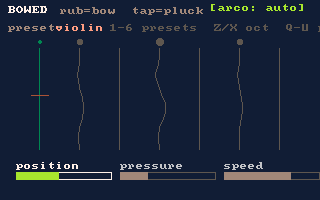
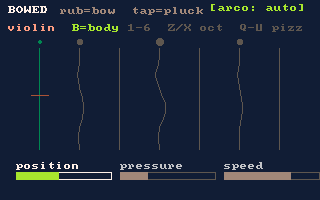
bowed: a B toggle for the new body -- and the baked frame caught two overlaps ui-audit did not
The engine change needs a cart where you can hear it (the standing constraint), so `bowed` gets 'B': one key
that switches between a bare string and a string in a box. It also fires a pizz on toggle so the change is
audible immediately rather than on the next note you happen to play.

ON by default in THIS cart because it is the showcase and the body is the thing worth hearing; the ENGINE
default stays OFF so the other 13 BOWED carts are untouched. Applied to both the arco and pizz slots, since
it is one instrument with one body. Documented in the source that MODE_BOW_BODY is read at NOTE-ON, so the
toggle lands on the next note and not on notes already sounding, and that the box is one fixed VIOLIN size
-- so preset 3 (cello) gets a violin's body for now, approximate on purpose.

LAYOUT, which took three passes and is the useful part of this commit. ui-audit passed my first version, but
reading the baked frame showed the readout colliding with the existing "[arco: auto]" indicator AND the help
line running off the right edge. The screen is 320 wide and the top row was already full (BOWED + rub/tap
ends at 204, arco starts at 210), so there was never room there. Restructured the y=24 row instead:
  · dropped the "preset:" label, which was ALREADY overlapping the peach preset name (pre-existing)
  · that freed the width for a "B=body" readout that shows state by COLOUR (lime on / grey off)
[…]

Changed region(s): [[0.0, 0.12, 0.9688, 0.18]]

diff --git a/tools/carts/bowed.c b/tools/carts/bowed.c
@@ -13,7 +13,7 @@
     "analog-voice-modeling"
   ],
   "lineage": "Ports the Smith/McIntyre stick-slip bowed-string waveguide from navkit (bowsweep.c Schelleng-wedge calibration); novel: arco/pizzicato as a single waveguide with friction toggled via eng_tune, plus multitouch rub-velocity as bow speed.",
-  "description": "INSTR_BOWED showcase - the bowed string (violin / viola / cello), the last modeled string engine. A Smith/McIntyre stick-slip friction waveguide: a bow drags the string, the rosin grips then slips, and that friction drives a SELF-OSCILLATING loop - so unlike the plucked/struck strings it HOLDS while sustained and swells as you lean in. STEP-0 (tools/navkit-bowsweep.c) mapped the Schelleng wedge of stable bowing and the three macros are pinned inside it: instrument_harmonics = bow position (0 = sul ponticello, near the bridge, bright/edgy; 1 = sul tasto, over the fingerboard, soft), instrument_timbre = bow pressure (0 = light/clean singing leaning-sawtooth; 1 = heavy/scratchy surface sound - a real articulation, not a bug), instrument_morph = bow speed/swell (0 = gentle; 1 = digging in, louder and cleaner). THE FEEL: you don't press a string, you RUB it - drag back and forth and it speaks; the energy ACCUMULATES, so the longer/harder you rub the more it builds and digs in, and stopping lets the bow rest (silent). A quick TAP instead PLUCKS the string - pizzicato, which is the SAME bowed waveguide: a second INSTR_BOWED slot flagged eng_tune(slot,0,1) seeds the string with a pluck and switches the bow friction off, so the identical string and body ring down (arco and pizz differ only in how energy enters, exactly as on a real violin). Six presets: 1 violin / 2 viola / 3 cello / 4 ponticello / 5 tasto / 6 tremolo. Keyboard: HOLD A S D F G H J to bow, tap Q W E R T Y U to pluck; LEFT/RIGHT pick a knob + UP/DOWN turn, Z/X octave, M autoplay arco. Multitouch: rub a drone with one hand, pluck a melody with the other. Design + STEP-0: instrument-engines.md §8.5 step 9."
+  "description": "INSTR_BOWED showcase - the bowed string (violin / viola / cello), the last modeled string engine. A Smith/McIntyre stick-slip friction waveguide: a bow drags the string, the rosin grips then slips, and that friction drives a SELF-OSCILLATING loop - so unlike the plucked/struck strings it HOLDS while sustained and swells as you lean in. STEP-0 (tools/navkit-bowsweep.c) mapped the Schelleng wedge of stable bowing and the three macros are pinned inside it: instrument_harmonics = bow position (0 = sul ponticello, near the bridge, bright/edgy; 1 = sul tasto, over the fingerboard, soft), instrument_timbre = bow pressure (0 = light/clean singing leaning-sawtooth; 1 = heavy/scratchy surface sound - a real articulation, not a bug), instrument_morph = bow speed/swell (0 = gentle; 1 = digging in, louder and cleaner). THE FEEL: you don't press a string, you RUB it - drag back and forth and it speaks; the energy ACCUMULATES, so the longer/harder you rub the more it builds and digs in, and stopping lets the bow rest (silent). A quick TAP instead PLUCKS the string - pizzicato, which is the SAME bowed waveguide: a second INSTR_BOWED slot flagged eng_tune(slot,0,1) seeds the string with a pluck and switches the bow friction off, so the identical string and body ring down (arco and pizz differ only in how energy enters, exactly as on a real violin). Six presets: 1 violin / 2 viola / 3 cello / 4 ponticello / 5 tasto / 6 tremolo. Keyboard: HOLD A S D F G H J to bow, tap Q W E R T Y U to pluck; LEFT/RIGHT pick a knob + UP/DOWN turn, Z/X octave, M autoplay arco, B BODY on/off. THE BODY (B) is new: this engine shipped with no body resonator at all, so a bowed note was a bare string - Reid's Part 22 point is that an instrument body IS a small reverberant room, and MODE_BOW_BODY builds one from three parallel delay lines at 1-4 ms. Toggle it to hear the difference between a string and a string in a box; it is the single biggest thing separating this from a sawtooth. The box is one fixed VIOLIN size, so the cello preset gets a violin's body for now. Multitouch: rub a drone with one hand, pluck a melody with the other. Design + STEP-0: instrument-engines.md §8.5 step 9."
 }
 de:meta */
 // bowed — INSTR_BOWED showcase: seven strings you BOW by RUBBING, plus pizzicato. The last
@@ -39,7 +39,7 @@ de:meta */
 //                          drag a string sideways while bowing bends nothing; drag a slider to set macros
 //           keyboard    — HOLD A S D F G H J = bow (steady) · tap Q W E R T Y U = pizzicato
 //           1..6 preset (violin/viola/cello/pontic./tasto/tremolo) · LEFT/RIGHT+UP/DOWN knobs
-//           Z/X octave · M autoplay arco on/off  ('P' is the runtime pause overlay)
+//           Z/X octave · M autoplay arco on/off · B BODY on/off  ('P' is the runtime pause overlay)
 //
 // MULTITOUCH: every finger is its own bow — rub a drone with one hand, pluck a melody with the other.
 
@@ -74,6 +74,21 @@ static float kbd_bow[NSTR];    // 1 while a keyboard key holds this string (stea
 static float amp[NSTR];        // visual string vibration
 static float vib_ph[NSTR];
 static float knob[3] = { 0.45f, 0.30f, 0.70f };   // the three macros (starts at "violin")
+
+// BODY (MODE_BOW_BODY) — three short parallel delay lines, 1-4 ms: Reid's Part 22 point that an
+// instrument body IS a small reverberant room. This engine shipped with NO body at all (audit §F4), which
+// is what the toggle exists to demonstrate: 'B' switches between a bare string and a string in a box.
+// ON by default HERE because this is the showcase cart and the body is the thing worth hearing; the
+// ENGINE default stays OFF so the other 13 BOWED carts are untouched.
+// ⚠ Read at NOTE-ON, so the toggle lands on the next note, not on notes already sounding.
+// ⚠ The box is one fixed VIOLIN size, so preset 3 (cello) gets a violin's body — approximate on purpose;
+//   sizing it is open work (plan §2.4).
+static bool body_on = true;
+#define BODY_AMT 1.0f
+static void apply_body(void) {
+    instrument_mode(I_STR, MODE_BOW_BODY, body_on ? BODY_AMT : 0.0f);
+    instrument_mode(I_PIZ, MODE_BOW_BODY, body_on ? BODY_AMT : 0.0f);   // same string, same body
+}
 static int   sel = 0;
 static int   preset = 0;
 static bool  autoplay = true;
@@ -144,6 +159,7 @@ void init(void) {
     PTR_CLEAR(ptr);
     build_strings();
     apply_knobs();
+    apply_body();
     bpm(84);
     atimer = 1.2f;                         // fire the first arco note on frame 1, no dead air
     amp[1] = 0.7f; amp[3] = 1.0f; amp[5] = 0.5f;   // a lively first frame for the thumbnail
@@ -167,6 +183,7 @@ void update(void) {
         apply_knobs();
     }
     if (keyp('M')) autoplay = !autoplay;
+    if (keyp('B')) { body_on = !body_on; apply_body(); pizz(3, 6); }   // pluck so the change is heard at once
     if (keyp('Z') && goct > 1) { goct--; build_strings(); }
     if (keyp('X') && goct < 6) { goct++; build_strings(); }
 
@@ -291,7 +308,9 @@ void draw(void) {
         rectfill(x, y, (int)(knob[k] * KNOB_W), 8, k == sel ? CLR_LIME_GREEN : CLR_MEDIUM_GREY);
         print(KNOB_NAME[k], x, y - 10, k == sel ? CLR_WHITE : CLR_LIGHT_GREY);
     }
-    print("preset:", 8, 24, CLR_MEDIUM_GREY);
-    print(PRESET_NAME[preset], 56, 24, CLR_PEACH);
-    print("1-6 presets  Z/X oct  Q-U pizz", SCREEN_W - 210, 24, CLR_DARK_GREY);
+    // y=24 fits inside 320 with room to spare now: the peach preset NAME needs no "preset:"
+    // label (it was overlapping it), and dropping it frees the width the body readout needs.
+    print(PRESET_NAME[preset], 8, 24, CLR_PEACH);
+    print("B=body", 72, 24, body_on ? CLR_LIME_GREEN : CLR_DARK_GREY);
+    print("1-6  Z/X oct  Q-U pizz", 128, 24, CLR_DARK_GREY);
 }
